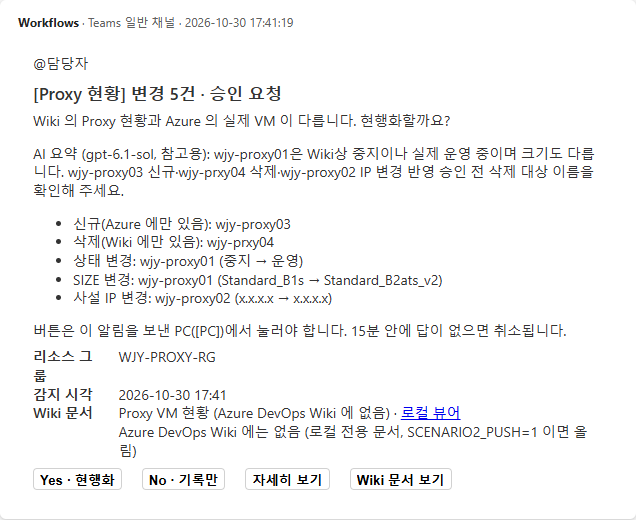
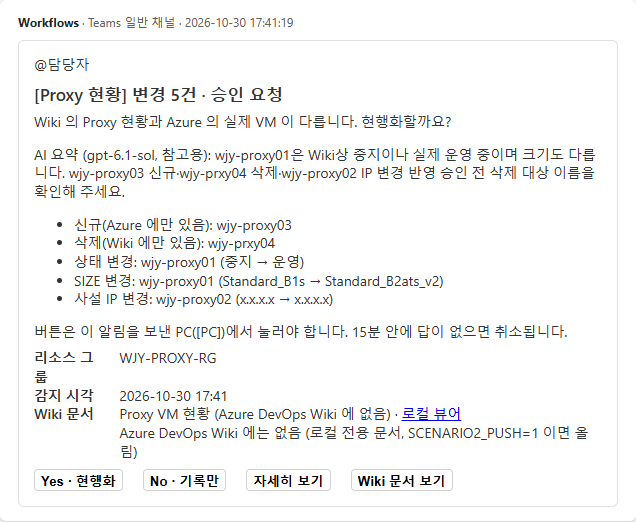
README 시나리오 2: Azure DevOps PBI·Task 화면, Wiki 수정 전/후 비교(바뀐 곳 빨간색) 추가, Teams 카드 테두리
capture_readme.py --only wikidiff | devops 추가. devops 는 허브 Chrome(9222)에 붙어 로그인된 화면을 찍고
이름·이메일·IP를 가리며 프로필 사진은 흐리게 한다.

diff --git a/test/capture_readme.py b/test/capture_readme.py
@@ -1,18 +1,24 @@
 """README 화면 재촬영. 조회·가이드 생성만 실행하며 승인·배포·Wiki 등록은 하지 않는다.
 
-사용: python test/capture_readme.py [--inspect] [--only wiki|viewer|hub|proxy|approval|teams]
+사용: python test/capture_readme.py [--inspect] [--only wiki|viewer|hub|proxy|approval|teams|wikidiff|devops]
 필요: pip install playwright, 실행 중인 로컬 서버, 설치된 Google Chrome.
 승인/완료 화면은 실제 렌더러에 예시 데이터를 넣어 별도 읽기 전용 서버로 촬영한다.
 Teams 카드(--only teams)는 teams_notify 가 보낼 때 남긴 data/teams_cards/*.json 중 종류별 최신 카드를
 Adaptive Cards 공식 렌더러로 그린다. Teams 에 새 메시지를 보내지 않는다.
+--only wikidiff: 시나리오 2 가 마지막으로 고친 현황 문서의 수정 전/후를 wiki-repo 커밋에서 꺼내 나란히 그리고 바뀐 곳을 빨갛게 표시.
+--only devops: 허브가 띄운 Chrome(전용 프로필, 개발자 도구 포트 9222, Azure DevOps 로그인 필요)에 붙어 시나리오 2 의
+  PBI·Task 화면을 찍는다. 승인 기록(data/approvals/)의 처리 단계에서 번호를 찾는다. 이름·이메일은 가린다.
 """
 
 from __future__ import annotations
 
 import argparse
+import difflib
+import html as html_mod
 import json
 import os
 import re
+import subprocess
 import sys
 import threading
 from datetime import datetime
@@ -336,6 +342,8 @@ CARD_PAGE = """<!doctype html><html><head><meta charset="utf-8">
 <style>body{margin:0;padding:20px;background:#f5f5f5;font-family:"Segoe UI","Malgun Gothic",sans-serif}
 #frame{width:600px;background:#fff;border-radius:6px;box-shadow:0 1px 3px rgba(0,0,0,.18);padding:14px 18px}
 .meta{font-size:12px;color:#616161;margin-bottom:10px}.meta b{color:#242424}
+#card{border:1px solid #e0e0e0;border-radius:6px;background:#fff}  /* Teams 채널의 카드 테두리 */
+#card .ac-adaptiveCard{border-radius:6px}
 .ac-pushButton{border:1px solid #d1d1d1!important;background:#fff!important;border-radius:4px!important;font-weight:600}</style>
 </head><body><div id="frame"><div class="meta"><b>Workflows</b> · Teams 일반 채널 · __WHEN__</div><div id="card"></div></div>
 <script>
@@ -394,10 +402,197 @@ def teams(page):
             print(f"skip {name}: data/teams_cards 에 '{pattern}' 카드 없음 (해당 시나리오를 실행하면 생김)", flush=True)
 
 
+# ---------------------------------------------------------------- 시나리오 2 Wiki 수정 전/후
+
+WIKI_REPO = ROOT / "wiki-repo"
+STATUS_DOC = "AI-Master-프로젝트/02.-운영/01.-공통/06.-네트워크-및-Proxy/01.-네트워크-및-Proxy-현황-파악/Proxy-VM-현황.md"
+DIFF_CSS = """body{margin:0;padding:20px;background:#f5f5f5;font:13px/1.55 "Segoe UI","Malgun Gothic",sans-serif;color:#242424}
+.pane{background:#fff;border-radius:8px;box-shadow:0 1px 3px #0002;padding:14px 20px;margin-bottom:16px}
+.cap{font-weight:700;font-size:14px;margin-bottom:8px}.cap span{font-weight:400;color:#666;margin-left:8px}
+h1{font-size:20px;margin:6px 0}h2{font-size:15px;margin:14px 0 6px;border-bottom:1px solid #eee;padding-bottom:4px}
+blockquote{margin:4px 0;padding:4px 10px;border-left:3px solid #c7d2fe;background:#f8fafc;color:#475569}
+table{border-collapse:collapse;width:100%;font-size:12px;margin:6px 0}td,th{border:1px solid #ddd;padding:4px 6px;text-align:left}
+th{background:#f3f4f6}p,li{margin:3px 0}ul{margin:4px 0;padding-left:20px}code{background:#f1f5f9;padding:0 3px;border-radius:3px}
+.chg{background:#fee2e2;color:#b91c1c;font-weight:700}.add,.add td{background:#fee2e2;color:#b91c1c;font-weight:700}
+.del,.del td{background:#fee2e2;color:#b91c1c;text-decoration:line-through}
+.legend{font-size:12px;color:#666;margin-bottom:12px}.legend b{color:#b91c1c}"""
+
+
+def git_show(rev: str, path: str) -> str:
+    out = subprocess.run(["git", "-C", str(WIKI_REPO), "show", f"{rev}:{path}"], capture_output=True)
+    return out.stdout.decode("utf-8")
+
+
+def inline(s: str) -> str:
+    s = html_mod.escape(s)
+    s = re.sub(r"\*\*(.+?)\*\*", r"<b>\1</b>", s)
+    s = re.sub(r"`([^`]+)`", r"<code>\1</code>", s)
+    return re.sub(r"\[([^\]]+)\]\(([^)\s]+)\)", r'<a href="\2">\1</a>', s)
+
+
+def blocks(md: str) -> list:
+    """('table', [행들]) 또는 ('line', 줄). 표는 머리글·구분 줄을 포함한 행 목록."""
+    out, table = [], []
+    for line in md.splitlines():
+        if line.startswith("|"):
+            table.append(line)
+            continue
+        if table:
+            out.append(("table", table)); table = []
+        out.append(("line", line))
+    if table:
+        out.append(("table", table))
+    return out
+
+
+def cells(row: str) -> list[str]:
+    return [c.strip() for c in row.strip().strip("|").split("|")]
+
+
+def render_side(md: str, other: str, side: str) -> str:
+    """side='before' 면 삭제·변경을, 'after' 면 추가·변경을 빨갛게 표시한다. 표는 첫 칸(이름·일시)으로 행을 맞춘다."""
+    mine, theirs = blocks(md), blocks(other)
+    other_lines = {x for k, x in theirs if k == "line"}
+    other_tables = [x for k, x in theirs if k == "table"]
+    html, ti, in_list = [], 0, False
+    for kind, x in mine:
+        if kind == "line":
+            line = x
+            mark = ' class="chg"' if line.strip() and line not in other_lines else ""
+            if in_list and not line.startswith("- "):
+                html.append("</ul>"); in_list = False
+            if line.startswith("# "):
+                html.append(f"<h1{mark}>{inline(line[2:])}</h1>")
+            elif line.startswith("## "):
+                html.append(f"<h2{mark}>{inline(line[3:])}</h2>")
+            elif line.startswith(">"):
+                html.append(f"<blockquote><span{mark}>{inline(line.lstrip('> '))}</span></blockquote>")
+            elif line.startswith("- "):
+                if not in_list:
+                    html.append("<ul>"); in_list = True
+                html.append(f"<li><span{mark}>{inline(line[2:])}</span></li>")
+            elif line.strip():
+                html.append(f"<p><span{mark}>{inline(line)}</span></p>")
+            continue
+        if in_list:
+            html.append("</ul>"); in_list = False
+        theirs_t = other_tables[ti] if ti < len(other_tables) else []
+        ti += 1
+        head, rows = cells(x[0]), [cells(r) for r in x[2:]]
+        other_rows = {r[0]: r for r in (cells(r) for r in theirs_t[2:])}
+        body = "".join(f"<th>{inline(h)}</th>" for h in head)
+        trs = [f"<tr>{body}</tr>"]
+        for r in rows:
+            o = other_rows.get(r[0])
+            if o is None:
+                trs.append(f'<tr class="{"del" if side == "before" else "add"}">' + "".join(f"<td>{inline(c)}</td>" for c in r) + "</tr>")
+            else:
+                trs.append("<tr>" + "".join(f'<td{" class=chg" if i >= len(o) or c != o[i] else ""}>{inline(c)}</td>'
+                                            for i, c in enumerate(r)) + "</tr>")
+        html.append("<table>" + "".join(trs) + "</table>")
+    if in_list:
+        html.append("</ul>")
+    return "\n".join(html)
+
+
+def wikidiff(page):
+    log = subprocess.run(["git", "-C", str(WIKI_REPO), "log", "-1", "--format=%h|%ad|%s", "--date=format:%Y-%m-%d %H:%M",
+                          "--grep=Proxy 현황 현행화", "--", STATUS_DOC], capture_output=True).stdout.decode("utf-8").strip()
+    if not log:
+        print("skip wiki-scenario2-diff.png: 시나리오 2 현행화 커밋 없음", flush=True)
+        return
+    rev, when, subject = log.split("|", 2)
+    before, after = git_show(f"{rev}^", STATUS_DOC), git_show(rev, STATUS_DOC)
+    prev = subprocess.run(["git", "-C", str(WIKI_REPO), "log", "-1", "--format=%h", f"{rev}^"],
+                          capture_output=True).stdout.decode().strip()
+    doc = (f"<!doctype html><html><head><meta charset='utf-8'><style>{DIFF_CSS}</style></head><body>"
+           f"<div class='legend'>Wiki <b>Proxy VM 현황</b> · 시나리오 2 현행화 전/후 비교 · <b>빨간색</b> = 바뀐 곳"
+           f"(수정 전: 지워지거나 바뀐 값, 수정 후: 새로 생기거나 바뀐 값)</div>"
+           f"<div class='pane'><div class='cap'>수정 전<span>커밋 {prev} · 테스트 환경 준비가 '현행화 전'으로 되돌린 상태</span></div>"
+           f"{render_side(before, after, 'before')}</div>"
+           f"<div class='pane'><div class='cap'>수정 후<span>커밋 {rev} · {when} · {html_mod.escape(subject)}</span></div>"
+           f"{render_side(after, before, 'after')}</div></body></html>")
+    src = EVIDENCE / "wiki-scenario2-diff.html"
+    src.write_text(doc, encoding="utf-8")
+    page.set_viewport_size({"width": 1200, "height": 900})
+    page.goto(src.as_uri(), wait_until="load")
+    page.evaluate(REDACTOR)
+    page.screenshot(path=str(OUT / "wiki-scenario2-diff.png"), full_page=True, animations="disabled")
+    (EVIDENCE / "wiki-scenario2-diff.txt").write_text(page.locator("body").inner_text(), encoding="utf-8")
+    print(f"captured wiki-scenario2-diff.png ({prev} → {rev}, {when})", flush=True)
+
+
+# ---------------------------------------------------------------- 시나리오 2 Azure DevOps PBI·Task
+
+NAME_REDACTOR = r"""(names) => {
+  const fix = s => names.reduce((a, n) => n ? a.split(n).join('담당자') : a, s);
+  const sweep = () => { const w = document.createTreeWalker(document.body, NodeFilter.SHOW_TEXT);
+    const ns = []; while (w.nextNode()) ns.push(w.currentNode);
+    for (const n of ns) { const s = fix(n.nodeValue); if (s !== n.nodeValue) n.nodeValue = s; }
+    for (const el of document.querySelectorAll('input, textarea')) { const s = fix(el.value); if (s !== el.value) el.value = s; }
+    for (const el of document.querySelectorAll('[title],[aria-label],[placeholder]'))
+      for (const a of ['title', 'aria-label', 'placeholder']) if (el.hasAttribute(a)) el.setAttribute(a, fix(el.getAttribute(a))); };
+  // 이름 첫 글자가 보이는 프로필 동그라미는 흐리게
+  const st = document.createElement('style');
+  st.textContent = '[class*="bolt-coin"], [class*="identity-picture"], [class*="avatar"] { filter: blur(5px) !important; }';
+  document.head.appendChild(st);
+  // 오른쪽 위 로그인 계정 동그라미(클래스가 달라 위치로 찾는다)
+  const me = document.elementFromPoint(innerWidth - 32, 24); if (me) me.style.filter = 'blur(5px)';
+  sweep(); new MutationObserver(sweep).observe(document.body, {subtree: true, childList: true, characterData: true});
+}"""
+DEVOPS_SECTION = ("(t => { const e = [...document.querySelectorAll('span')].find(x => x.textContent.trim() === t);"
+                  " return e && e.closest('.work-item-form-collapsible-section'); })")
+
+
+def devops_ids() -> dict:
+    """시나리오 2 승인 기록의 처리 단계에서 PBI·Task 번호를 찾는다."""
+    saved = latest_approval(2)
+    text = " ".join(s.get("text", "") for s in ((saved or {}).get("state") or {}).get("steps", []))
+    pbi, task = re.search(r"PBI #(\d+)", text), re.search(r"Task #(\d+)", text)
+    return {"pbi": pbi and pbi.group(1), "task": task and task.group(1)}
+
+
+def devops(own_page):
+    ids = devops_ids()
+    if not ids["task"]:
+        print("skip devops: 시나리오 2 승인 기록에 Task 번호 없음", flush=True)
+        return
+    base = "https://dev.azure.com/{}/{}".format(os.environ.get("AZURE_DEVOPS_ORG", ""),
+                                                os.environ.get("AZURE_DEVOPS_PROJECT", "").strip('"').replace(" ", "%20"))
+    names = [n for n in {os.environ.get("TEAMS_MENTION_NAME", ""), os.environ.get("DEVOPS_DISPLAY_NAME", "")} if n]
+    if True:  # 이미 떠 있는 Playwright 로 허브 Chrome 에 붙는다(sync_playwright 를 겹쳐 띄우면 오류)
+        try:
+            browser = own_page.context.browser.browser_type.connect_over_cdp("http://127.0.0.1:9222")
+        except Exception as exc:
+            print(f"skip devops: 허브 Chrome(포트 9222)에 붙지 못함 — 허브를 띄우고 그 창에서 Azure DevOps 에 로그인하세요 ({exc})", flush=True)
+            return
+        page = browser.contexts[0].new_page()
+        try:
+            page.set_viewport_size({"width": 1600, "height": 1150})
+            for name, wid, section in [("devops-scenario2-pbi.png", ids["pbi"], "Related Work"),
+                                       ("devops-scenario2-task.png", ids["task"], "Description")]:
+                if not wid:
+                    continue
+                page.goto(f"{base}/_workitems/edit/{wid}", wait_until="domcontentloaded", timeout=60000)
+                if "login" in page.url or "signin" in page.url:
+                    print("skip devops: Azure DevOps 로그인 필요(허브 Chrome 창에서 로그인)", flush=True)
+                    return
+                page.locator("span", has_text=section).first.wait_for(timeout=60000)
+                page.wait_for_timeout(2500)  # 링크 목록·설명 늦게 그려짐
+                page.evaluate(REDACTOR)
+                page.evaluate(NAME_REDACTOR, names)
+                mark(page, f"{DEVOPS_SECTION}('{section}')")
+                page.screenshot(path=str(OUT / name), animations="disabled")
+                (EVIDENCE / f"{Path(name).stem}.txt").write_text(page.locator("body").inner_text(), encoding="utf-8")
+                print(f"captured {name} (#{wid})", flush=True)
+        finally:
+            page.close()
+
+
 def main():
     parser = argparse.ArgumentParser(description=__doc__)
     parser.add_argument("--inspect", action="store_true", help="DOM 확인만; 검색·촬영 안 함")
-    parser.add_argument("--only", choices=["wiki", "viewer", "hub", "proxy", "approval", "teams"])
+    parser.add_argument("--only", choices=["wiki", "viewer", "hub", "proxy", "approval", "teams", "wikidiff", "devops"])
     args = parser.parse_args()
     OUT.mkdir(parents=True, exist_ok=True)
     EVIDENCE.mkdir(parents=True, exist_ok=True)
@@ -415,7 +610,7 @@ def main():
                 ), flush=True)
         else:
             for name, capture in [("wiki", wiki), ("viewer", viewer), ("hub", hub), ("proxy", proxy), ("approval", approval),
-                                  ("teams", teams)]:
+                                  ("teams", teams), ("wikidiff", wikidiff), ("devops", devops)]:
                 if not args.only or args.only == name:
                     capture(page)
             print("Finished:", datetime.now().astimezone().isoformat(timespec="seconds"), flush=True)

diff --git a/README.md b/README.md
@@ -187,6 +187,22 @@ Yes를 누르면 Task 생성 → Wiki 표·변경 이력 갱신 → Task 완료 
 
 ![시나리오 2 - Teams 현행화 완료 카드](docs/images/teams-scenario2-result.png)
 
+**Azure DevOps · 같은 실행에서 만든 PBI·Task** (이름·이메일·IP는 가림, 설명하는 부분은 빨간 테두리)
+
+그 달 PBI `2610) Proxy VM 현황 Wiki 현행화` 아래에 실행할 때마다 Task가 하나씩 붙습니다. 상위는 Feature `[공통] Proxy 현황 관리`, 하위 Task는 모두 Done입니다:
+
+![시나리오 2 - PBI와 하위 Task](docs/images/devops-scenario2-pbi.png)
+
+Task #2531에는 감지한 변경 5건, 현황 문서 링크, AI 요약이 들어가고, Wiki를 고친 뒤 커밋 번호를 댓글로 남기고 Done으로 바꿉니다:
+
+![시나리오 2 - Task 상세](docs/images/devops-scenario2-task.png)
+
+**Wiki 현황 문서 · 수정 전/후** (빨간색 = 바뀐 곳)
+
+수정 전은 테스트 환경 준비가 되돌려 둔 상태(커밋 `e2d609e`), 수정 후는 승인 뒤 시나리오 2가 고친 상태(커밋 `2b8a9ac`)입니다. VM 표의 SIZE·상태·사설 IP 값이 Azure 값으로 바뀌고, Azure에 없는 `wjy-prxy04`는 지워지고(취소선) 새 VM `wjy-proxy03`이 더해졌으며, 변경 이력에 Task 링크와 함께 한 줄이 추가됩니다:
+
+![시나리오 2 - Wiki 현황 문서 수정 전/후](docs/images/wiki-scenario2-diff.png)
+
 아래 두 장은 같은 실행(2026-10-30 17:41)의 **로컬 승인 화면**과 승인 후 **처리 결과 화면**입니다. 화면 내용과 최종 진행 상태를 `data/approvals/`에 남겨 두었다가 같은 화면 코드로 다시 그렸습니다. Teams 카드의 "자세히 보기"가 이 로컬 승인 화면을 엽니다. Teams 카드에서 바로 Yes/No를 누르면 "받았습니다" 확인만 뜨고 처리 결과는 Teams 결과 카드로 옵니다:
 
 ![시나리오 2 - 로컬 승인 화면](docs/images/approval.png)
@@ -1077,7 +1093,7 @@ python -m venv data/readme-capture-venv
 & .\data\readme-capture-venv\Scripts\python.exe test\capture_readme.py
 ```
 
-Google Chrome이 설치되어 있어야 합니다. `--only wiki|viewer|hub|proxy|approval|teams`로 특정 화면 묶음만 다시 찍을 수 있습니다(`--only wiki`처럼 하나를 지정).
+Google Chrome이 설치되어 있어야 합니다. `--only wiki|viewer|hub|proxy|approval|teams|wikidiff|devops`로 특정 화면 묶음만 다시 찍을 수 있습니다(`--only wiki`처럼 하나를 지정).
 
 | 화면 | 캡처 시 수행하는 동작 | 외부 반영 |
 |---|---|---|
@@ -1085,6 +1101,8 @@ Google Chrome이 설치되어 있어야 합니다. `--only wiki|viewer|hub|proxy
 | 시나리오 2 | 허브에서 저장된 점검 로그 조회 | 새 점검·Teams 요청·Task 생성·Wiki 갱신 없음 |
 | 시나리오 3 | Squid·NGINX 실제 로그·정책 조회, 허브의 기존 실행 로그 조회 | SSH 읽기만 수행. 장애 주입·복구·PR 생성·배포 없음 |
 | 승인·완료 화면 | 실제 실행 때 `data/approvals/`에 남긴 승인 화면 내용·최종 진행 상태(시나리오별 Yes로 끝난 최신 1건)를 같은 화면 코드로 읽기 전용 서버에 띄워 촬영. 기록이 없으면 예시 데이터 | 없음. 예시 데이터일 때만 **화면 예시 · 외부 반영 없음** 표시 |
+| Wiki 수정 전/후 (`--only wikidiff`) | wiki-repo에서 시나리오 2의 마지막 현행화 커밋과 그 직전 파일을 꺼내 위아래로 그리고, 표는 첫 칸(이름)으로 행을 맞춰 바뀐 칸·추가 행·삭제 행을 빨갛게 표시 → `wiki-scenario2-diff.png` | 없음 |
+| Azure DevOps (`--only devops`) | 허브가 띄운 Chrome(전용 프로필, 포트 9222)에 붙어 시나리오 2 승인 기록의 PBI·Task 화면을 찍음 → `devops-scenario2-pbi.png`, `devops-scenario2-task.png`. 그 Chrome 창에서 Azure DevOps에 한 번 로그인해 두어야 함 | 없음(조회만). 이름·이메일·IP는 가리고 프로필 사진은 흐리게 |
 | Teams 카드 (`--only teams`) | `data/teams_cards/`에 남은 **실제 전송 카드** 중 종류별 최신 1장(시나리오 2·3의 승인 요청·결과)을 Adaptive Cards 공식 렌더러(`adaptivecards@3.0.5`)로 그림 → `teams-scenario2-approval.png`, `teams-scenario2-result.png`, `teams-scenario3-approval.png`, `teams-scenario3-result.png` | 없음. Teams에 다시 보내지 않음. 멘션 이름·계정·PC 이름은 그리기 전에, IP·이메일은 화면에서 가림 |
 
 로컬 승인 화면은 승인을 기다리는 동안에만 떠 있으므로, `approval_local.Approval`이 화면 내용과 끝난 뒤 진행 상태를 `data/approvals/`(Git 제외)에 남깁니다(`APPROVAL_ARCHIVE=0`이면 끔). Teams 카드는 `teams_notify.send`가 보낼 때마다 `data/teams_cards/`(Git 제외)에 JSON으로 남깁니다(`TEAMS_CARD_ARCHIVE=0`이면 끔). Teams 채널 이력을 Graph로 읽으려면 관리자 동의 권한(`ChannelMessage.Read.All`)이 필요해서 보내는 쪽에서 남깁니다. 그래서 카드 화면을 새로 찍으려면 먼저 시나리오 2(테스트 환경 준비 → 실행 → Yes)와 시나리오 3(장애 재현 → 실행 → Yes)을 실제로 한 번씩 실행합니다. 스크립트는 표시되는 IP·이메일·ID를 가리고 촬영하며, 확인용 화면 텍스트는 Git에서 제외한 `data/readme-capture/`에 남깁니다. 공유 전에는 이미지도 직접 확인합니다. 시나리오 2 로그를 새로 만들려면 촬영 전에 `python proxy_tools/proxy_status_sync.py --dry-run`을 실행합니다(비교·AI 요약만 수행, 로컬 로그·트레이스 기록).
